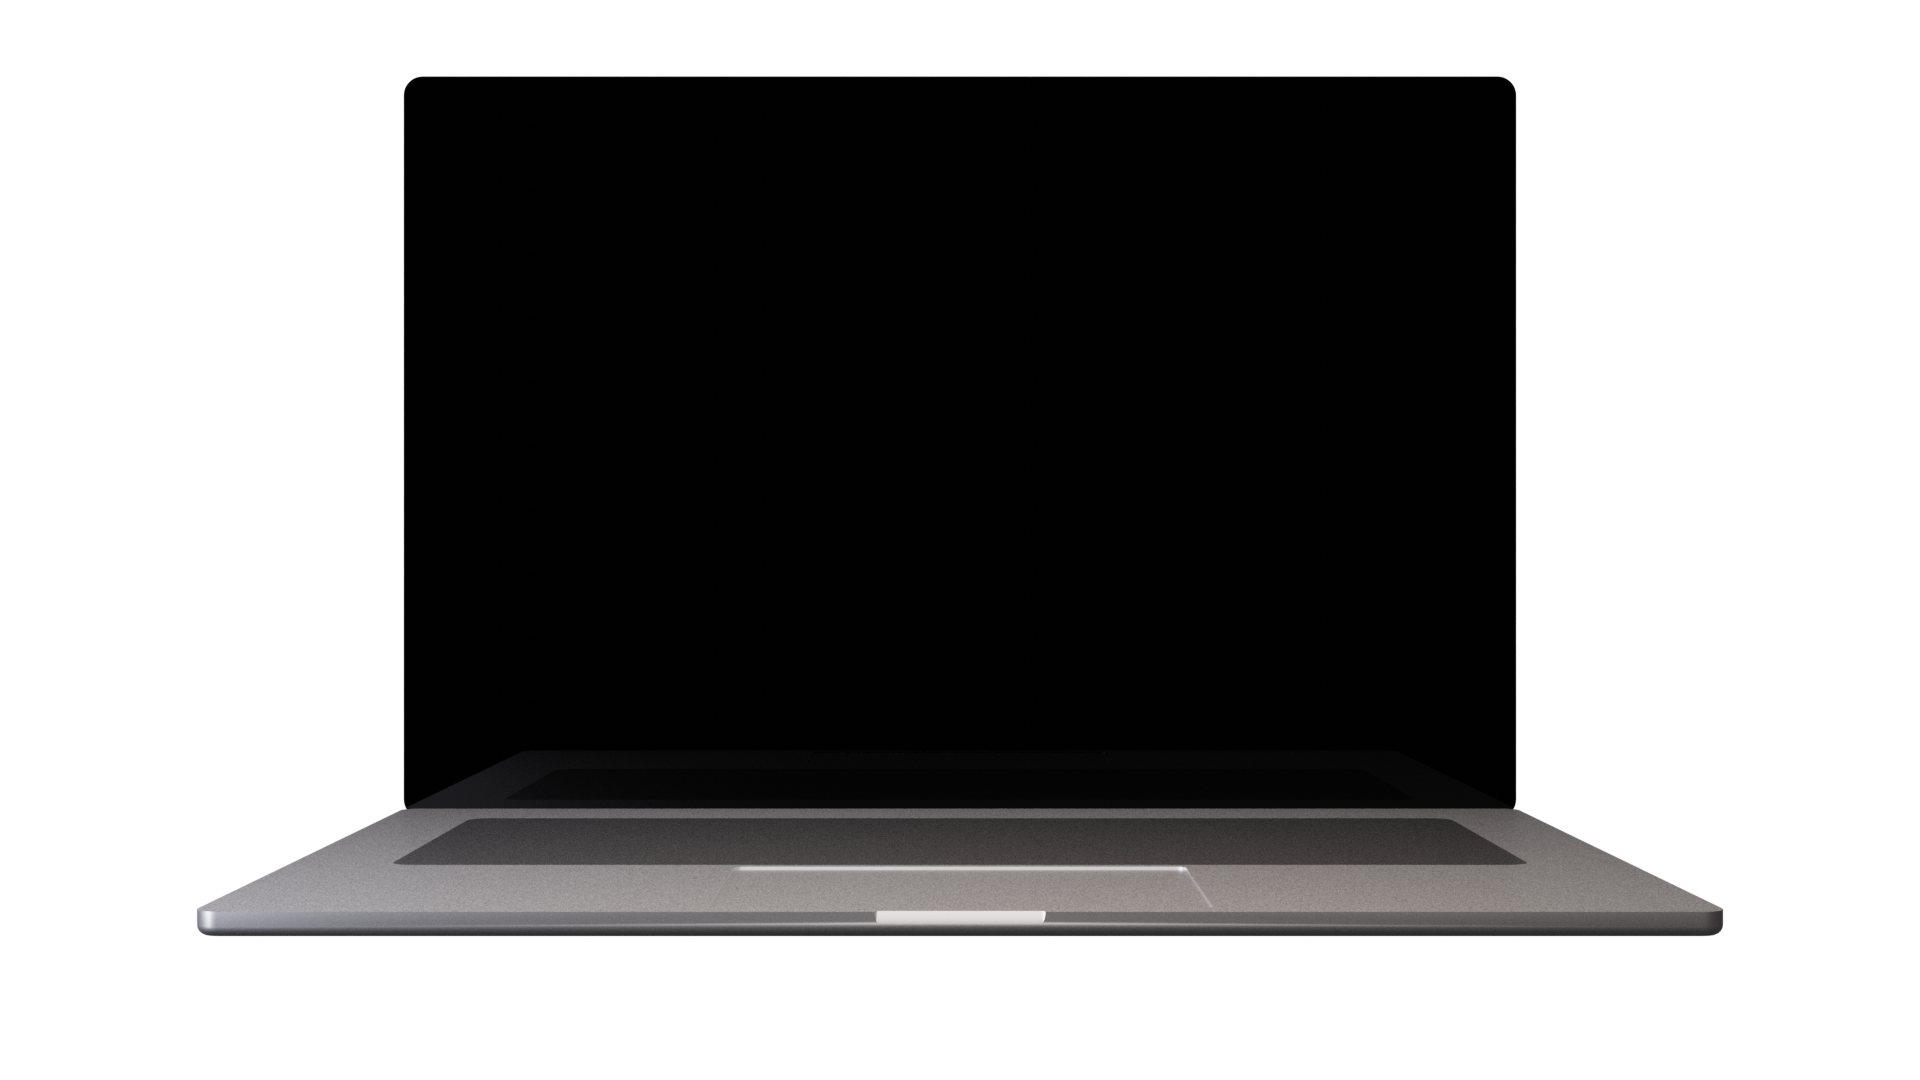
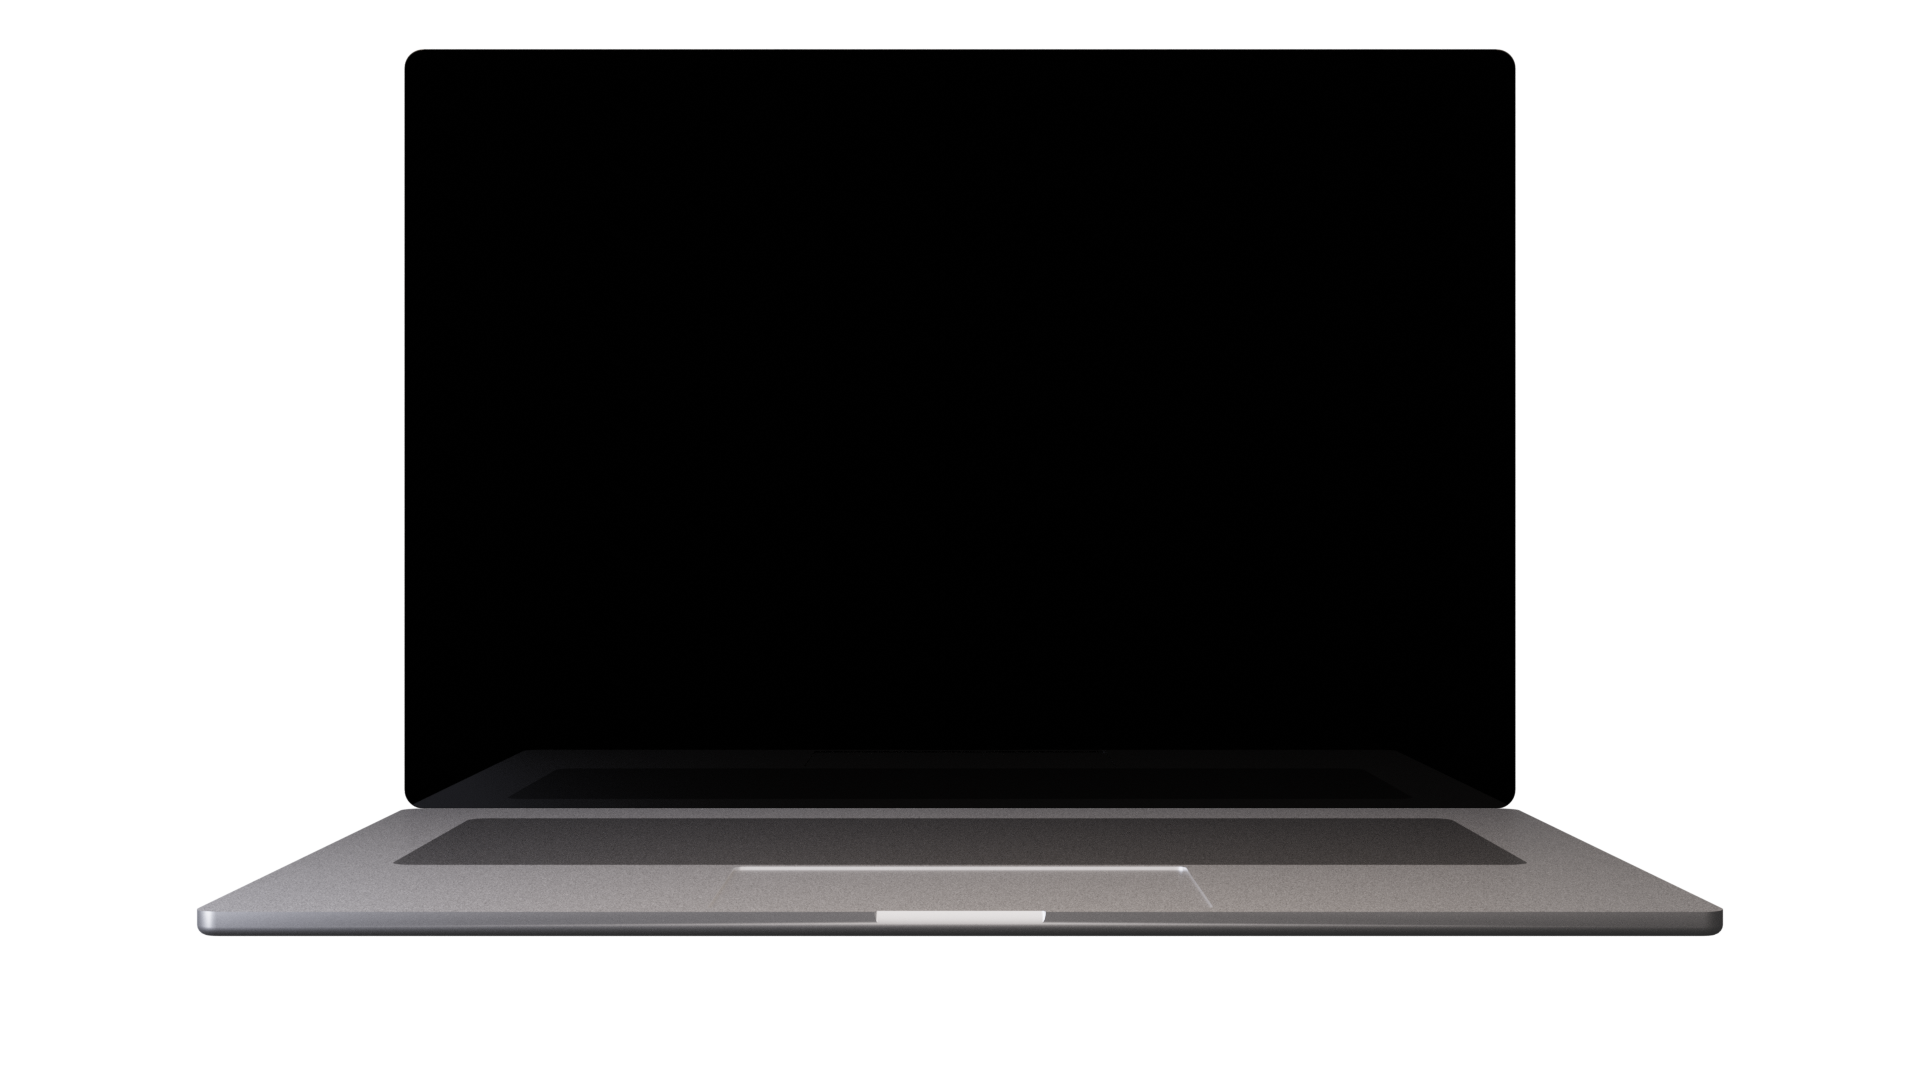
メインページ完成

Changed region(s): [[0.1875, 0.0306, 0.8125, 0.0917]]

diff --git a/index.html b/index.html
@@ -7,7 +7,7 @@
     <title>PioneOS</title>
 
     <meta name="description"
-        content="PioneOS は、ぶどう島の PioneOS 部が開発したOS。Debian ベースの Linux ディストリビューションであり、安定的で軽快な動作を目指している。">
+        content="PioneOSは、ぶどう島のPioneOS Groupが開発する日本製のDebianベース Linuxディストリビューションです。安定的で軽快な動作を目指しています。">
     <meta name="keywords" content="PioneOS,ぶどう島,PioneOS部,OS,Debian,Linux,ディストリビューション,安定,軽快">
     <meta name="author" content="ぶどう島">
 
@@ -17,7 +17,7 @@
     <meta property="og:image" content="https://ospio.net/images/ogp.png">
     <meta property="og:site_name" content="PioneOS">
     <meta property="og:description"
-        content="PioneOS は、ぶどう島の PioneOS 部が開発したOS。Debian ベースの Linux ディストリビューションであり、安定的で軽快な動作を目指している。">
+        content="PioneOSは、ぶどう島のPioneOS Groupが開発する日本製のDebianベース Linuxディストリビューションです。安定的で軽快な動作を目指しています。">
     <meta name="twitter:card" content="summary_large_image">
     <meta name="twitter:site" content="@gbudou">
     <meta name="theme-color" content="#c866e8">
@@ -25,11 +25,26 @@
     <link rel="stylesheet" href="/styles/main.css">
 
     <style>
-        main section#hello img#laptop {
+        #image {
+            position: relative;
             width: 75%;
             margin: 0 auto;
+        }
+
+        #screen {
+            border-radius: .25em;
+            height: calc(100%/1.5);
+            left: 50%;
+            position: absolute;
+            top: 6%;
+            transform: translateX(-50%);
+        }
+
+        #laptop {
             display: block;
-            filter: drop-shadow(0 .25em .5em var(--shadow-color));
+            margin: 0 auto;
+            width: 100%;
+            max-height: 67vh;
         }
 
         main section#about {
@@ -56,8 +71,10 @@
                 <p class="center" style="font-size: 1.5em;">
                     安定 そして 軽快
                 </p>
-                <img id="laptop" src="/images/laptop.png" alt="Laptop">
-                <img src="screen" alt="">
+                <div id="image">
+                    <img id="screen" src="/images/desktop_screen.png" alt="Screen">
+                    <img id="laptop" src="/images/laptop.png" alt="Laptop">
+                </div>
                 <p class="center">
                     <a href="/download.html" class="button rainbow-hover">PioneOSを入手する</a>
                     <a href="/donate.html" class="button secondary rainbow-hover">開発者を応援する</a>

diff --git a/styles/main.css b/styles/main.css
@@ -6,7 +6,7 @@
     --link: #146994;
     --header-text: #ffffff;
     --footer-text: #ffffff;
-    --footer-background: #544d5c;
+    --footer-background: var(--theme-color-dark);
     --theme-color: #c866e8;
     --theme-color-dark: #a63f9a;
     --secondary-theme-color: #70c844;
